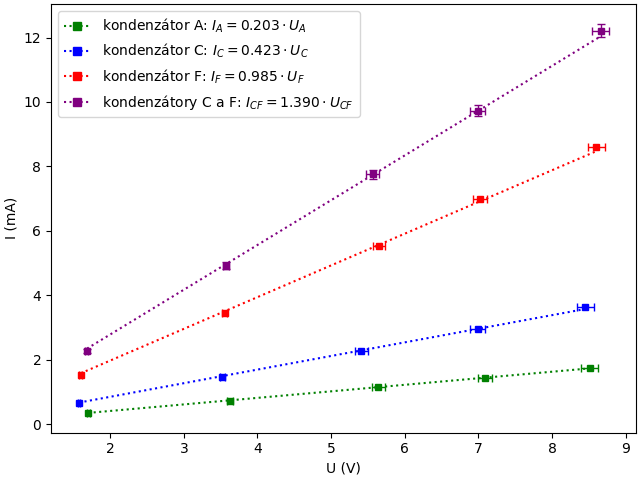
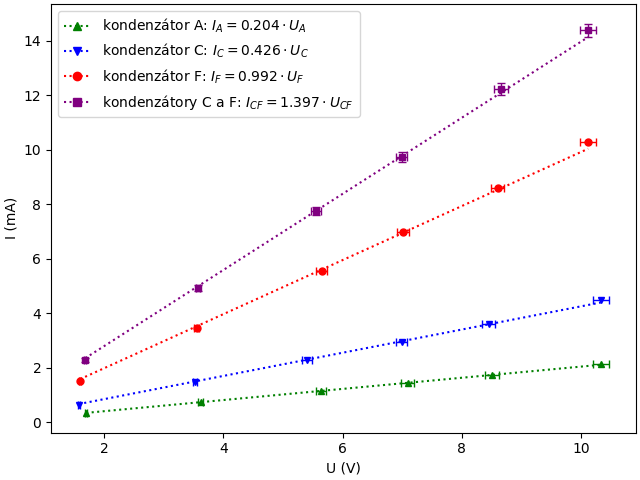
fig civky done

diff --git a/code7.py b/code7.py
@@ -9,7 +9,7 @@ from scipy.interpolate import make_interp_spline
 
 import praktika as pr
 
-df1 = pr.read_excel(file_path='uloha7/uloha7.xlsx', sheet_name='List1', cells='A3:H8')
+df1 = pr.read_excel(file_path='uloha7/uloha7.xlsx', sheet_name='List1', cells='A3:H8', header=None)
 df1.columns = ['ua', 'dua', 'ia', 'dia', 'uc', 'duc', 'ic', 'dic']
 
 f = 50  # Hz
@@ -17,7 +17,7 @@ f = pr.Var(f, 0.0001*f, 'f', 'Hz')
 w = 2 * np.pi * f
 w.set_lname('\\omega', 's^{-1}')
 
-df2 = pr.read_excel(file_path='uloha7/uloha7.xlsx', sheet_name='List1', cells='A11:H16')
+df2 = pr.read_excel(file_path='uloha7/uloha7.xlsx', sheet_name='List1', cells='A11:H16', header=None)
 df2.columns = ['uf', 'duf', 'if', 'dif', 'ucf', 'ducf', 'icf', 'dicf']
 
 ua = pr.Var(df1['ua'].to_numpy(), df1['dua'].to_numpy(), 'U_A', 'V')
@@ -44,10 +44,10 @@ relf.fit()
 relfc.fit()
 
 figc, axc = plt.subplots(layout='constrained')
-rela.plot_data(axc, err=(1,0), label='kondenzátor A', color='green')
-relc.plot_data(axc, err=(1,0), label='kondenzátor C', color='blue')
-relf.plot_data(axc, err=(1,0), label='kondenzátor F', color='red')
-relfc.plot_data(axc, err=(1,1), label='kondenzátory C a F', color='purple')
+rela.plot_data(axc, err=(1,0), label='kondenzátor A', color='green', marker='^')
+relc.plot_data(axc, err=(1,0), label='kondenzátor C', color='blue', marker='v')
+relf.plot_data(axc, err=(1,0), label='kondenzátor F', color='red', marker='o')
+relfc.plot_data(axc, err=(1,1), label='kondenzátory C a F', color='purple', marker='s')
 
 rela.plot_fit(axc, color='green')
 relc.plot_fit(axc, color='blue')
@@ -60,11 +60,11 @@ kf = relf.coeffs[0]
 kfc = relfc.coeffs[0]
 
 #print(rela.coeffs, relc.coeffs, relf.coeffs, relfc.coeffs)
-combined_handle1 = Line2D([], [], color='green', marker='s', linestyle=':', 
+combined_handle1 = Line2D([], [], color='green', marker='^', linestyle=':', 
                          label=f'kondenzátor A: ${ia.short_name} = {ka.val[0]:.3f} \\cdot {ua.short_name}$')
-combined_handle2 = Line2D([], [], color='blue', marker='s', linestyle=':', 
+combined_handle2 = Line2D([], [], color='blue', marker='v', linestyle=':', 
                           label=f'kondenzátor C: ${ic.short_name} = {kc.val[0]:.3f} \\cdot {uc.short_name}$')
-combined_handle3 = Line2D([], [], color='red', marker='s', linestyle=':', 
+combined_handle3 = Line2D([], [], color='red', marker='o', linestyle=':', 
                           label=f'kondenzátor F: ${if_.short_name} = {kf.val[0]:.3f} \\cdot {uf.short_name}$')
 combined_handle4 = Line2D([], [], color='purple', marker='s', linestyle=':', 
                           label=f'kondenzátory C a F: ${icf.short_name} = {kfc.val[0]:.3f} \\cdot {ucf.short_name}$')
@@ -93,6 +93,74 @@ caps = pr.Var([ca.val[0], cc.val[0], cf.val[0], cfc.val[0]],
 
 #####################################################
 
+df3 = pr.read_excel(file_path='uloha7/uloha7.xlsx', sheet_name='List1', cells='J3:M12', header=None)
+df3.columns = ['u', 'du', 'i', 'di']
+df3.sort_values(by='u', inplace=True, ascending=True)
+
+df4 = pr.read_excel(file_path='uloha7/uloha7.xlsx', sheet_name='List1', cells='J16:M25', header=None)
+df4.columns = ['u', 'du', 'i', 'di']
+df4.sort_values(by='u', inplace=True, ascending=True)
+
+df5 = pr.read_excel(file_path='uloha7/uloha7.xlsx', sheet_name='List1', cells='J29:M42', header=None)
+df5.columns = ['u', 'du', 'i', 'di']
+df5.sort_values(by='u', inplace=True, ascending=True)
+#print(df5)
+
+r = pr.Var(2.721, 0.008816, 'R_L', '\\Omega')
+
+u1 = pr.Var(df3['u'].to_numpy(), df3['du'].to_numpy(), 'U', 'V')
+i1 = pr.Var(df3['i'].to_numpy(), df3['di'].to_numpy(), 'I', 'mA')
+l1 = np.sqrt(u1**2 / (i1/1000)**2 - r**2) / (2 * np.pi * f) * 1000  # in mH
+l1.set_lname('L', 'mH')
+
+#print('Induktance L1:', l1)
+#print('Table L1:')
+#pr.to_table(i1, u1, l1)
+
+fig1, ax1 = plt.subplots(layout='constrained')
+rel1 = pr.Rel(i1, l1, pr.F.const)
+rel1.plot_data(ax1, err=(0,1), label='naměřené hodnoty')
+rel1.fit()
+rel1.plot_fit(ax1, label=f'střední hodnota', color='blue')
+
+
+ax1.legend()
+fig1.savefig('uloha7/fig1.png')
+plt.close(fig1)
+
+############
+
+u2 = pr.Var(df4['u'].to_numpy(), df4['du'].to_numpy(), 'U', 'V')
+i2 = pr.Var(df4['i'].to_numpy(), df4['di'].to_numpy(), 'I', 'mA')
+l2 = np.sqrt(u2**2 / (i2/1000)**2 - r**2) / (2 * np.pi * f) * 1000  # in mH
+l2.set_lname('L', 'mH')
+#print('Table L2:')
+#pr.to_table(i2, u2, l2)
+
+fig2, ax2 = plt.subplots(layout='constrained')
+rel2 = pr.Rel(i2, l2, pr.F.const)
+rel2.plot_data(ax2, err=(1,1), label='naměřené hodnoty')
+rel2.fit()
+rel2.plot_fit(ax2, label=f'střední hodnota', color='blue')
+ax2.legend()
+fig2.savefig('uloha7/fig2.png')
+plt.close(fig2)
+
+############
+
+u3 = pr.Var(df5['u'].to_numpy(), df5['du'].to_numpy(), 'U', 'V')
+i3 = pr.Var(df5['i'].to_numpy(), df5['di'].to_numpy(), 'I', 'mA')
+l3 = np.sqrt(u3**2 / (i3/1000)**2 - r**2) / (2 * np.pi * f)  # in H
+l3.set_lname('L', 'H')
+#print('Table L3:')
+#pr.to_table(i3, u3, l3)
+
+fig3, ax3 = plt.subplots(layout='constrained')
+rel3 = pr.Rel(i3, l3)
+rel3.plot_data(ax3, err=(1,1), label='Indukčnost cívky s uzavřeným jádrem', smooth=3)
+ax3.legend()
+fig3.savefig('uloha7/fig3.png')
+plt.close(fig3)
 
 
 

diff --git a/praktika.py b/praktika.py
@@ -7,6 +7,7 @@ from scipy.optimize import curve_fit
 from functools import partial
 from matplotlib.lines import Line2D
 from scipy.stats.distributions import t
+from scipy.interpolate import make_interp_spline
 
 ################# Var class ############################
 class Var:
@@ -118,6 +119,10 @@ class Var:
         new_unc = unp.exp(self.unc)
         return Var(unp.nominal_values(new_unc), unp.std_devs(new_unc), f'\\exp {self.short_name}', self.unit)
     
+    def sqrt(self):
+        new_unc = unp.sqrt(self.unc)
+        return Var(unp.nominal_values(new_unc), unp.std_devs(new_unc), f'\\sqrt{{{self.short_name}}}', self.unit)
+    
     def __setitem__(self, idx, value):
         new_unc = self.unc
         if isinstance(value, Var):
@@ -197,7 +202,7 @@ class Rel:
         self.coeffs = fitted_coeffs
         self.cov = cov_matrix
     
-    def plot_data(self, ax, err: tuple = (1,1), connect=False, label='naměřené hodnoty', 
+    def plot_data(self, ax, err: tuple = (1,1), connect=False, smooth=False, label='naměřené hodnoty', 
                   scale=1, marker='s', color='black', zorder=None):
         match err:
             case (1, 1): # x_error_bar and y_error_bar
@@ -214,6 +219,13 @@ class Rel:
 
         if connect:
             ax.plot(self.x.val, self.y.val, color='black')
+
+        if smooth:
+            # Create a smooth line using spline interpolation
+            x_smooth = np.linspace(min(self.x.val), max(self.x.val), 300)
+            spline = make_interp_spline(self.x.val, self.y.val, k=smooth)  # Cubic spline
+            y_smooth = spline(x_smooth)
+            ax.plot(x_smooth, y_smooth, color='black', linestyle='--')
 
         ax.set_xlabel(self.x.long_name)
         ax.set_ylabel(self.y.long_name)
